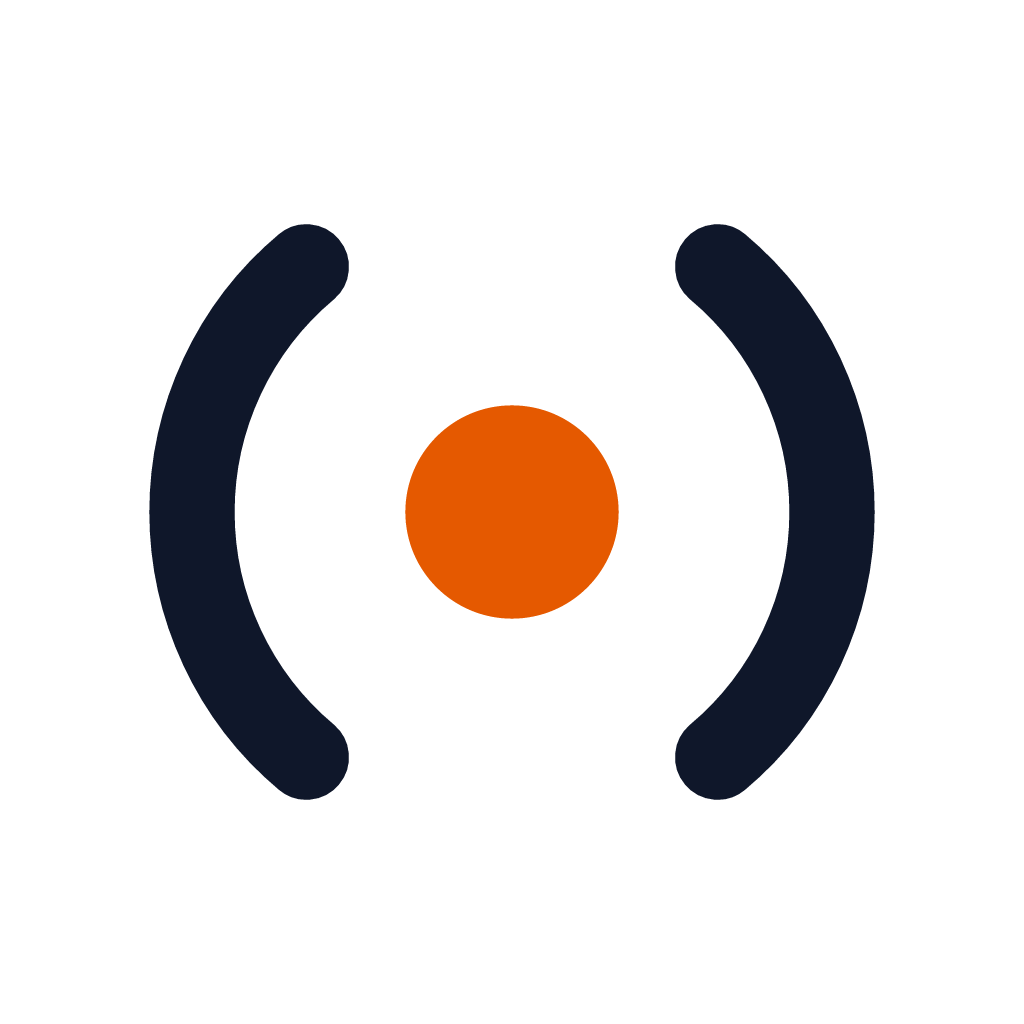
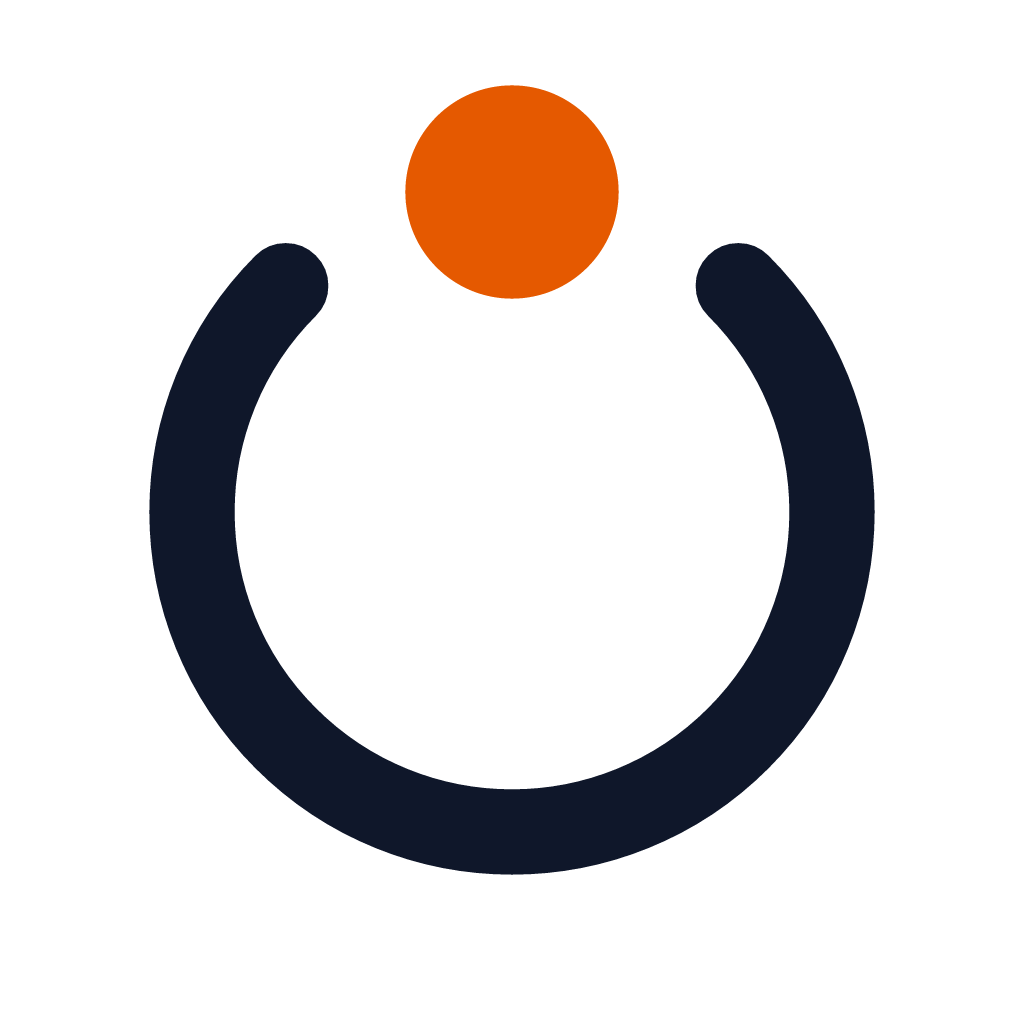
feat(brand): Beacon's mark is the family ring opened at the top with the fire on the rim; the services group is 公共服务
- The mark: Origin's ring as the tower, opened at the top by 90 degrees, the accent point on the rim in the
  opening, the moment an alarm leaves the tower. Screened with Google Lens and Baidu: no identification with any
  existing logo, and no software or AI peer among the visual matches (the earlier provisional mark, two arcs
  around a point, matched a crowd of "brackets and dot" icons including an agent-payments company).
- The family menu's second group is 公共服务 in Chinese (four characters fit the bar); English stays
  "Free public services".

diff --git a/brand/beacon.ts b/brand/beacon.ts
@@ -1,31 +1,23 @@
-// Beacon mark, candidate 1: Signal. A fire (the accent point at the centre) and its signal carried
-// both ways along the wall: Origin's ring (radius 15 around the centre) opened at the top and the
-// bottom, leaving two ink arcs of 100 degrees each (50 on either side of the horizontal).
+// Beacon mark: Raised fire. The tower is Origin's ring (radius 15 around the centre), opened at the
+// top by 90 degrees; the fire, the accent point, sits in that opening on the rim, the moment the
+// alarm leaves the tower. One fire, as the towers of the Great Wall lit one for a small alarm.
 // 48-unit grid, 4-unit margin; stroke 4 units, 5.5 in the small variant; the fire grows from
 // radius 5 to 6 with it, as Origin's point does.
-//
-// A drop-in for brand/beacon.ts: copy this file over it and run `pnpm gen`. It imports nothing,
-// so it works from either place.
 
-export const name = 'Signal';
-export const zh = '烽信';
+export const name = 'Raised fire';
+export const zh = '举火';
 export const rationale =
-  'A fire and the signal it sends to the towers on either side, as Beacon carries an alert to people and agents.';
-export const caveat =
-  'Close to common broadcast and radio icons, so it is the one screening is most likely to stop.';
+  'The tower is the family ring, opened at the top; the fire is on the rim, leaving the tower: an alarm on its way to people and agents.';
 
 const n = (v: number): string => String(Math.round(v * 1000) / 1000);
 
-/** A clockwise arc around (24, 24) from angle a0 to a1 (degrees, clockwise from +x). */
-const arc = (r: number, a0: number, a1: number): string => {
-  const p = (deg: number): string => {
-    const a = (deg * Math.PI) / 180;
-    return `${n(24 + r * Math.cos(a))} ${n(24 + r * Math.sin(a))}`;
-  };
-  return `M${p(a0)}A${r} ${r} 0 0 1 ${p(a1)}`;
+/** A point on the circle of radius r around (24, 24), at deg degrees clockwise from +x. */
+const p = (r: number, deg: number): string => {
+  const a = (deg * Math.PI) / 180;
+  return `${n(24 + r * Math.cos(a))} ${n(24 + r * Math.sin(a))}`;
 };
 
 export const beacon = (stroke: number): string =>
-  `<path class="ink" d="${arc(15, 130, 230)}"/>` +
-  `<path class="ink" d="${arc(15, -50, 50)}"/>` +
-  `<circle class="accent-f" cx="24" cy="24" r="${stroke > 4 ? 6 : 5}"/>`;
+  // the ring, clockwise from -45 degrees round to 225 degrees: 270 degrees of ink, the opening at the top
+  `<path class="ink" d="M${p(15, -45)}A15 15 0 1 1 ${p(15, 225)}"/>` +
+  `<circle class="accent-f" cx="24" cy="9" r="${stroke > 4 ? 6 : 5}"/>`;

diff --git a/packages/vitepress-theme/src/config/strings.ts b/packages/vitepress-theme/src/config/strings.ts
@@ -70,7 +70,7 @@ export const FAMILY = {
   zh: {
     home: (name: string) => `${name} 主页`,
     projects: '开源项目',
-    services: '公益服务',
+    services: '公共服务',
     allServices: '全部服务',
   },
 } as const;
@@ -94,7 +94,7 @@ export const FOOTER = {
   },
   zh: {
     projects: '开源项目',
-    services: '公益服务',
+    services: '公共服务',
     about: '关于',
     news: '动态',
     trust: '信任与安全',

diff --git a/packages/vitepress-theme/test/config.test.ts b/packages/vitepress-theme/test/config.test.ts
@@ -132,7 +132,7 @@ describe('defineOpenLinkOSConfig', () => {
     expect(family.items.map((g) => (g as DefaultTheme.NavItemChildren).text)).toEqual([
       'LinkOS 主页',
       '开源项目',
-      '公益服务',
+      '公共服务',
     ]);
     expect(family.items[0]).toEqual({ text: 'LinkOS 主页', link: 'https://linkos.io/zh/' });
     expect((family.items[2] as DefaultTheme.NavItemChildren).items.at(-1)).toEqual({

diff --git a/BRAND.md b/BRAND.md
@@ -13,7 +13,7 @@ Every brand is an entry in [`brand/brands.json`](brand/brands.json), the single 
 | `linkos-mirrors` | LinkOS Mirrors | service | interlocked rings | green |
 | `linkos-status` | LinkOS Status | service | interlocked rings | green |
 | `origin` | Origin | product | ring and centre point | indigo |
-| `beacon` | Beacon | product | its own, provisional (see below) | orange |
+| `beacon` | Beacon | product | its own (see below) | orange |
 | `agent` | OpenLinkOS Agent | product | interlocked rings | violet |
 
 The open-source projects are LinkOS Mirrors (its code: registry-mirrors, registry-mirrors-caddy and registry-mirrors-relay), Origin and Beacon; the free public services are LinkOS Mirrors and LinkOS Status. OpenLinkOS Agent was an experiment: it keeps its entry and its files, which its README uses, but is not listed.
@@ -28,7 +28,7 @@ An entry holds the name, tier and parent, the mark, the wordmark and an optional
 - **Line.** One stroke weight, 4 units, with round caps and joins. At 32 px and below the small variant uses 5.5 units so the mark stays legible; the favicon uses it.
 - **Interlocked rings.** Two rings of radius 10, centres 14 apart. Each passes under the other once: the left ring at the upper crossing, the right ring at the lower one. The gap where a ring passes under is the stroke width plus 1.25 units on each side.
 - **Ring and centre point.** A ring of radius 15 around a solid point of radius 5 (6 in the small variant).
-- **Beacon.** Its own mark, in [`brand/beacon.ts`](brand/beacon.ts), which documents its construction. It is provisional: the candidates are in [`brand/proposals/beacon/`](brand/proposals/beacon/) with their gallery (`index.html`, built by `node brand/proposals/beacon/build.ts`), each a drop-in for `brand/beacon.ts`; the one picked replaces it, and `pnpm gen` does the rest. The mark holds candidate 1 until then.
+- **Beacon.** Its own mark, in [`brand/beacon.ts`](brand/beacon.ts), which documents its construction: the family ring as the tower, opened at the top by 90 degrees, and the fire (the accent point) on the rim in that opening, the moment an alarm leaves the tower.
 - **Wordmark.** A monoline alphabet drawn as paths in [`brand/wordmark.ts`](brand/wordmark.ts) (x-height 11, cap height 15, descender 5, stroke 2.6 font units). In a lockup the wordmark is scaled by 1.45 so its stroke matches the mark, sits 13 units to the right of the mark, and the descriptor follows 8 units after the name. Brand names are always set in Latin letters, in every language.
 - **Colour.** The left ring (or the ring around the origin, or the lines of Beacon's mark) is ink; the accent is the brand colour (Beacon's fire). Ink is `#0f172a` on light backgrounds and `#e2e8f0` on dark ones. App icons and cards use the ink tile `#0f172a` with the dark colourway.
 - **Paths only.** Marks contain no text, filters, external references, embedded fonts or inline colours; colours come from the classes `ink`, `accent`, `ink-f` and `accent-f`, so one geometry renders every colourway. The tests enforce this.

diff --git a/packages/vitepress-theme/CHANGELOG.md b/packages/vitepress-theme/CHANGELOG.md
@@ -6,10 +6,10 @@ Changes to `@openlinkos/vitepress-theme`, newest first. It shares its version wi
 
 ### Added
 
-- The Beacon brand (`brand: 'beacon'`): its favicons, app icons, web manifest, Open Graph image, README headers and brand kit, and Beacon in the family menu and the footer. Its colour, signal orange, is final; its mark is provisional and may change in a later release.
+- The Beacon brand (`brand: 'beacon'`): its favicons, app icons, web manifest, Open Graph image, README headers and brand kit, and Beacon in the family menu and the footer. Its colour is signal orange; its mark is the family ring opened at the top with the fire on the rim.
 
 ### Changed
 
-- The family menu and the footer have two groups: **Open-source projects** (开源项目) with LinkOS Mirrors, Origin and Beacon, and **Free public services** (公益服务) with LinkOS Mirrors and LinkOS Status, followed by the link to all services. Under the projects, LinkOS Mirrors links to its repository, openlinkos/registry-mirrors; under the services, to linkos.org.
+- The family menu and the footer have two groups: **Open-source projects** (开源项目) with LinkOS Mirrors, Origin and Beacon, and **Free public services** (公共服务) with LinkOS Mirrors and LinkOS Status, followed by the link to all services. Under the projects, LinkOS Mirrors links to its repository, openlinkos/registry-mirrors; under the services, to linkos.org.
 - OpenLinkOS Agent is no longer listed in the family menu or the footer. Its brand files are still published under `/brand/agent/` with `brandKit`, so links to them keep working, and `brand: 'agent'` still works.
 - `brand/brands.json` in `dist/`: `nav` is now a list of groups (empty for a brand that is not listed) instead of one group or `null`, and an entry may name its GitHub repository (`repo`).
